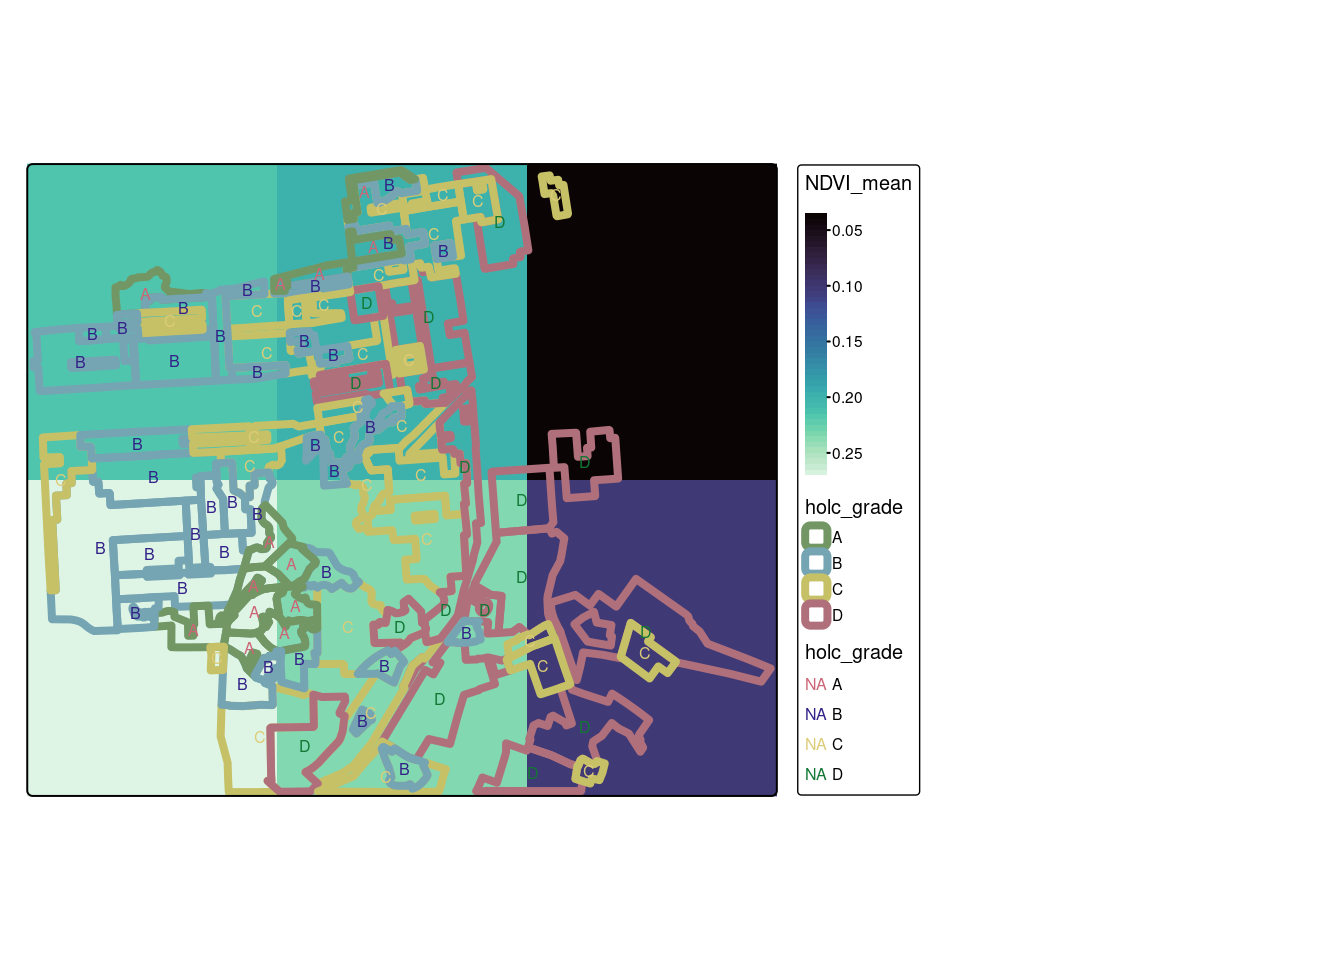
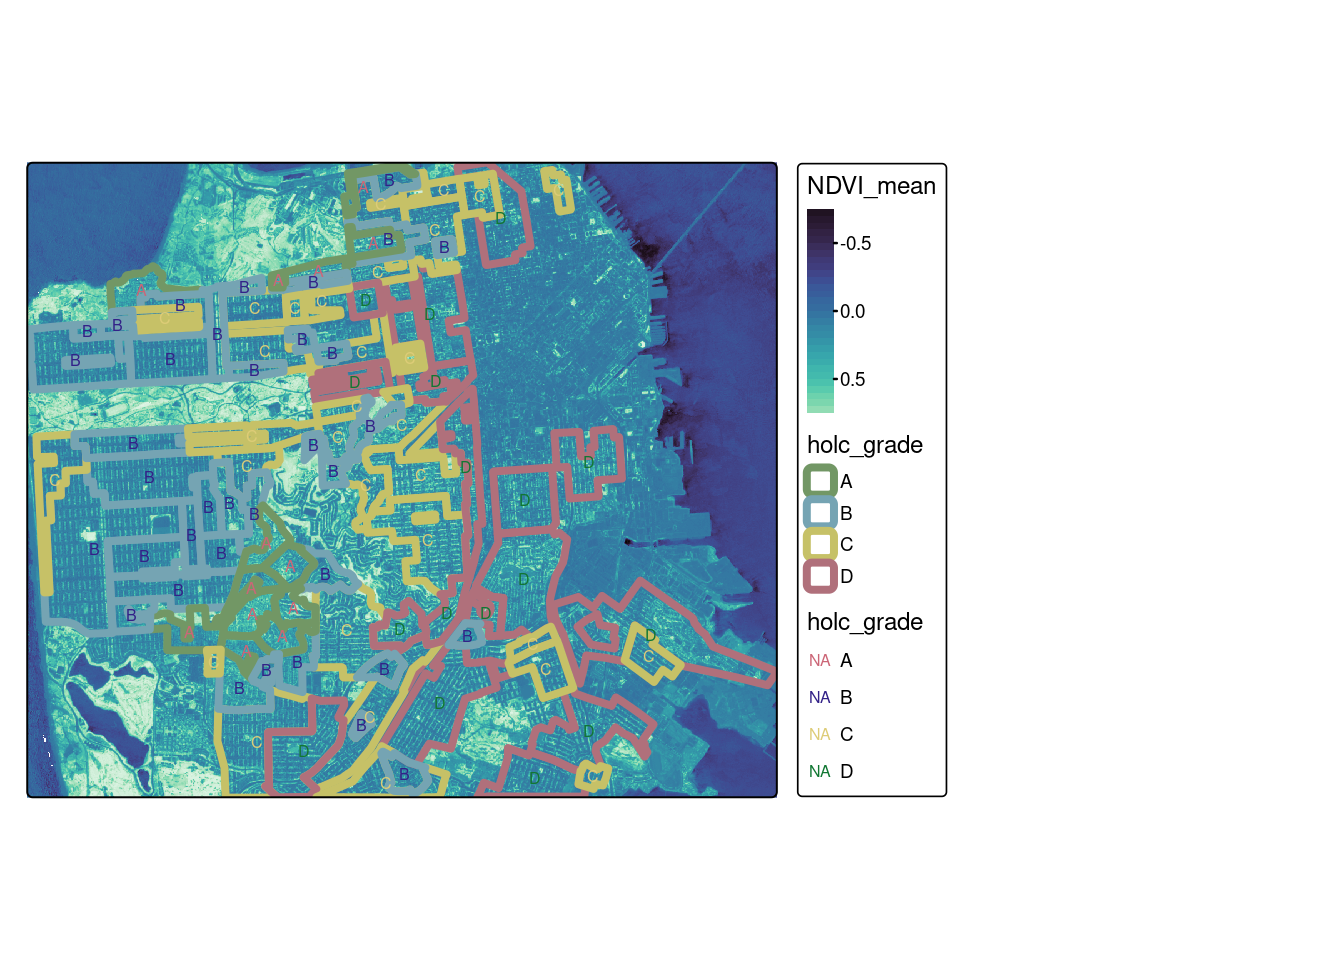
Built site for gh-pages

Changed region(s): [[0.0, 0.1562, 0.7188, 0.8438]]

diff --git a/contents/r-intro.html b/contents/r-intro.html
@@ -390,7 +390,7 @@ Geodetic CRS:  WGS 84</code></pre>
 <span id="cb21-2"><a href="#cb21-2" aria-hidden="true" tabindex="-1"></a>                  <span class="at">extent =</span> <span class="fu">list</span>(<span class="at">t0 =</span> start_date, <span class="at">t1 =</span> end_date,</span>
 <span id="cb21-3"><a href="#cb21-3" aria-hidden="true" tabindex="-1"></a>                                <span class="at">left =</span> box[<span class="dv">1</span>], <span class="at">right =</span> box[<span class="dv">3</span>],</span>
 <span id="cb21-4"><a href="#cb21-4" aria-hidden="true" tabindex="-1"></a>                                <span class="at">top =</span> box[<span class="dv">4</span>], <span class="at">bottom =</span> box[<span class="dv">2</span>]),</span>
-<span id="cb21-5"><a href="#cb21-5" aria-hidden="true" tabindex="-1"></a>                  <span class="at">dx =</span> <span class="fl">0.05</span>, <span class="at">dy =</span> <span class="fl">0.05</span>, <span class="at">dt =</span> <span class="st">"P1M"</span>,</span>
+<span id="cb21-5"><a href="#cb21-5" aria-hidden="true" tabindex="-1"></a>                  <span class="at">nx =</span> <span class="dv">2400</span>, <span class="at">ny =</span> <span class="dv">2400</span>, <span class="at">dt =</span> <span class="st">"P1M"</span>,</span>
 <span id="cb21-6"><a href="#cb21-6" aria-hidden="true" tabindex="-1"></a>                  <span class="at">aggregation =</span> <span class="st">"median"</span>, <span class="at">resampling =</span> <span class="st">"average"</span>)</span></code><button title="Copy to Clipboard" class="code-copy-button"><i class="bi"></i></button></pre></div>
 </div>
 <p>Third, we create an image mask indicating which pixels should be removed by using the data quality control layer, which indicates pixels that post-processing had identified as corresponding to clouds or cloud shadows:</p>
@@ -455,10 +455,10 @@ Geodetic CRS:  WGS 84</code></pre>
 <pre><code># A tibble: 4 × 2
   holc_grade  mean
   &lt;chr&gt;      &lt;dbl&gt;
-1 A             NA
-2 B             NA
-3 C             NA
-4 D             NA</code></pre>
+1 A          0.316
+2 B          0.212
+3 C          0.195
+4 D          0.194</code></pre>
 </div>
 </div>
 <div class="cell">
